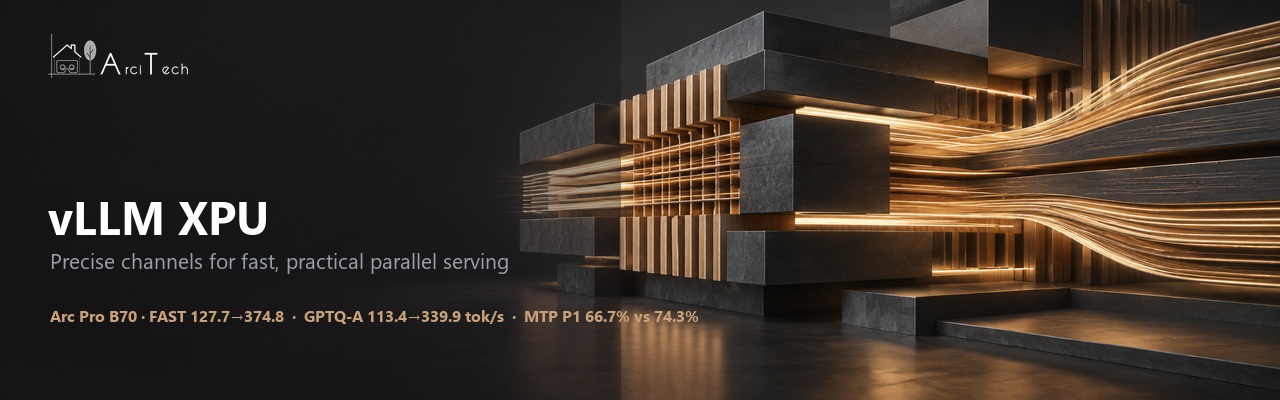
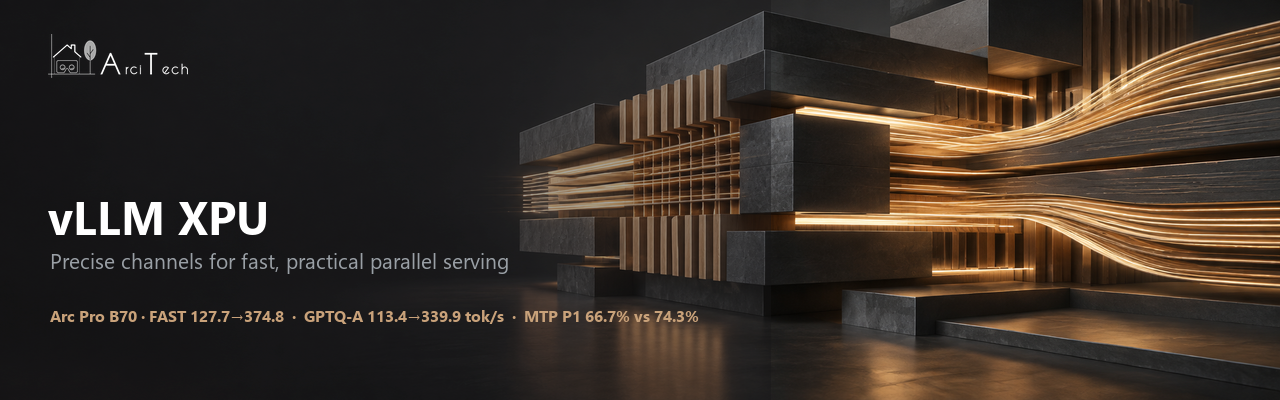
Present the release for a general audience
At-a-glance facts, the full test bench, plain-language charts in the
ArciTech theme, a glossary, and a practitioner section.

Changed region(s): [[0.4688, 0.03, 0.625, 0.72], [0.4688, 0.78, 0.5625, 1.0]]

diff --git a/README.md b/README.md
@@ -6,97 +6,127 @@
 
 <picture><source media="(prefers-color-scheme: dark)" srcset="assets/arcitech-logo-white.png"><img src="assets/arcitech-logo-black.png" alt="ArciTech logo"></picture>
 <picture><source media="(prefers-color-scheme: dark)" srcset="assets/hero-dark.png"><img src="assets/hero-light.png" alt="vLLM XPU for Intel Arc"></picture>
-<picture><source media="(prefers-color-scheme: dark)" srcset="assets/throughput-dark.png"><img src="assets/throughput-light.png" alt="FAST and GPTQ-A aggregate throughput comparison"></picture>
-<picture><source media="(prefers-color-scheme: dark)" srcset="assets/precision_map-dark.png"><img src="assets/precision_map-light.png" alt="Tiel-Coder logical precision map"></picture>
-<picture><source media="(prefers-color-scheme: dark)" srcset="assets/layer_gptq_relative_error-dark.png"><img src="assets/layer_gptq_relative_error-light.png" alt="GPTQ relative error by decoder layer"></picture>
-<picture><source media="(prefers-color-scheme: dark)" srcset="assets/mtp_acceptance-dark.png"><img src="assets/mtp_acceptance-light.png" alt="FAST and GPTQ-A MTP acceptance comparison"></picture>
 
-This is a reviewable, local build recipe for the best working Intel Arc/XPU
-path we have measured with Tiel-Coder: compressed-tensors W4A16 expert weights,
-the official BF16 MTP head, and three speculative draft tokens. The default
-build is based on vLLM commit `ac7509e2b1db40fec2f03dde1ed4e9dfdc2338c9`
-(`0.27.2rc1.dev77+gac7509e2b`), the runtime every number below was measured on,
-and includes the core patch, the XPU GGUF plugin source, and optional research
-paths. We are only trying to get something useful out there; the numbers below
-are campaign measurements, not a certification for every model, driver, or
-future vLLM release.
+This is a reviewable local build recipe for the best working Intel Arc/XPU
+route measured with Tiel-Coder: compressed-tensors W4A16 expert weights, the
+official BF16 MTP head, and three speculative draft tokens. It is a measured
+route, not a certification for every model, driver, or future vLLM release.
 
-A rebase onto vLLM `v0.30.0` is included under
-[`experimental/v0.30-rebase/`](experimental/v0.30-rebase/). It applies cleanly
-at source level but **has not been built or served yet**, and stock v0.30.0
-crashed on this model in our test window (details below). Use the default
-build unless you want to help test the rebase.
+## At a glance
+
+- **One Intel Arc Pro B70, 32 GB** served the tested 35B-parameter coding model.
+- **116.9 tokens/s for one user; 339.9 tokens/s shared across four** on GPTQ-A.
+- **219 of 224** on the internal agentic coding evaluation.
+- **Four 131,072-token conversations at once** in the measured configuration.
+- **vLLM 0.27.2rc1.dev77+gac7509e2b**, a custom XPU build with PyTorch XPU support.
+
+Tokens per second (tokens/s) is how quickly generated text arrives. A shared
+total is the combined output of several concurrent users.
+
+<picture><source media="(prefers-color-scheme: dark)" srcset="assets/test-bench-dark.png"><img src="assets/test-bench-light.png" alt="ArciTech test bench specification card"></picture>
+
+## Test system
+
+The short version: a consumer AM4 desktop with one 32 GB workstation GPU — no
+datacenter hardware.
+
+<details>
+<summary>Full test system</summary>
+
+| Part | Value |
+|---|---|
+| GPU 1 (serves the model) | Intel Arc Pro B70, 32 GB |
+| GPU 2 (in the machine, not used for these tests) | Intel Arc A310 LP, 4 GB |
+| CPU | AMD Ryzen 7 5800X, 8 cores / 16 threads |
+| System memory | 32 GB DDR4-3200 (4 × 8 GB) |
+| Motherboard | ASUS ROG Strix B550-F Gaming (AM4, PCIe 4.0) |
+| Model storage (weights served from here) | 1 TB Samsung PM9A1 NVMe SSD (PCIe 4.0) |
+| Other storage (archive only; the model was not loaded from it) | 1.5 TB WD Green HDD |
+| OS | Ubuntu 24.04.4 LTS, Linux kernel 7.0 |
+| Intel GPU runtime | compute-runtime 26.22.38646.4 (Level Zero + OpenCL), Level Zero loader 1.28.6, IGC 2.11.12 |
+| Container | Docker 29.1.3 |
+| Serving stack | vLLM 0.27.2rc1.dev77+gac7509e2b (custom XPU build, `vllm-xpu-arc`), PyTorch 2.13.0+xpu, vllm-xpu-kernels 0.1.12.3 |
+| Serving settings | FP8 KV cache, 131,072-token context, 4 concurrent sequences, 4,096 max batched tokens, MTP with 3 draft tokens |
+
+</details>
+
+## Read the measured results
+
+<picture><source media="(prefers-color-scheme: dark)" srcset="assets/speed-comparison-dark.png"><img src="assets/speed-comparison-light.png" alt="Per-user and shared total decode speed at one, two, and four users"></picture>
+
+| Build | 1 user | 2 users | 4 users |
+|---|---:|---:|---:|
+| GPTQ-A, per-stream / aggregate tok/s | 116.9 / 113.4 | 105.9, 113.6 / 195.6 | 94.0, 92.5, 92.5, 93.0 / 339.9 |
+| FAST CT2, per-stream / aggregate tok/s | 132.0 / 127.7 | 120.8, 125.0 / 228.6 | 99.3, 101.1, 101.0, 100.4 / 374.8 |
+
+<picture><source media="(prefers-color-scheme: dark)" srcset="assets/quality-comparison-dark.png"><img src="assets/quality-comparison-light.png" alt="Internal 224-task coding evaluation comparison"></picture>
+
+| Build | Total | Code (184) | Tool (20) | Edit (20) |
+|---|---:|---:|---:|---:|
+| GPTQ-A | 219 / 224 | 181 | 18 | 20 |
+| FAST CT2 | 213–215 / 224 | 176–178 | 18 | 19 |
+
+This internal evaluation is aggregate-only; task prompts and per-task records
+are not released.
+
+<picture><source media="(prefers-color-scheme: dark)" srcset="assets/precision-split-dark.png"><img src="assets/precision-split-light.png" alt="Logical precision split"></picture>
+
+The logical parameter split is approximately 93.5% routed expert GPTQ int4 and
+6.5% BF16. Attention, routing, normalization, embeddings, shared experts, the
+vision tower, output head, and MTP tensors remain BF16.
+
+<picture><source media="(prefers-color-scheme: dark)" srcset="assets/mtp-acceptance-dark.png"><img src="assets/mtp-acceptance-light.png" alt="MTP acceptance by draft position"></picture>
+
+MTP proposes tokens ahead and lets the main model verify several at once when
+the guesses match. GPTQ-A acceptance by configured draft position was 74.3%,
+50.9%, and 35.6%.
+
+## How to read this
+
+- **Token:** a small piece of text; words may be one or several tokens.
+- **Tokens/s:** generated tokens per second, a practical speed measure.
+- **MoE:** mixture of experts; only selected experts handle each token.
+- **int4 / BF16:** compact 4-bit routed-expert weights and retained 16-bit tensors.
+- **MTP:** multi-token prediction; a draft path proposes tokens for verification.
+- **KV cache:** saved attention state that avoids recomputing the conversation so far.
+- **Context:** the maximum conversation length the model can consider at once.
 
 ## Best working path
 
-The default path is the compressed-tensors Tiel-Coder deployment. It was
-measured on one Intel Arc Pro B70 with 32 GB using vLLM
-`0.27.2rc1.dev77+gac7509e2b`, PyTorch `2.13.0+xpu`,
+The default route uses the compressed-tensors Tiel-Coder deployment and was
+measured with vLLM `0.27.2rc1.dev77+gac7509e2b`, PyTorch `2.13.0+xpu`,
 `vllm-xpu-kernels 0.1.12.3`, FP8 KV cache, a 131,072-token maximum context,
 four sequence slots, 4,096 maximum batched tokens, and three MTP drafts.
 
-| Measurement | Result |
-|---|---:|
-| Historical FAST CT2 single-request decode | 133–138 tok/s |
-| Historical FAST CT2 four-request aggregate decode | 365–378 tok/s |
-| Historical FAST CT2 MTP acceptance | 67–81% |
-| Night reference FAST CT2 / GPTQ-A, 1 stream | 132.0 / 113.4 tok/s |
-| Night reference FAST CT2 / GPTQ-A, 4-stream aggregate | 374.8 / 339.9 tok/s |
-| Night reference MTP acceptance | FAST 66.7% / 42.0% / 24.7%; GPTQ-A 74.3% / 50.9% / 35.6% by position |
-| Agentic evaluation | 213–215 / 224 |
-| Long-context capacity | 4 × 131,072-token slots in the measured pool |
+The repository contains source and build recipes, not model weights or runtime
+caches. Build the pinned core patch and image, then mount the model read-only
+using the launcher supplied with the release. Set the launcher's model input to
+the model you downloaded from the
+[Hugging Face model page](https://huggingface.co/arcitech-psp/Tiel-Coder-35B-A3B-W4A16-GPTQ-XPU-MTP).
 
-The tested model is [Tiel-Coder 35B-A3B GPTQ W4A16](https://huggingface.co/arcitech-psp/Tiel-Coder-35B-A3B-W4A16-GPTQ-XPU-MTP).
-The companion data and reproduction repo is
-[https://github.com/arcitech-psp/tiel-coder-xpu](https://github.com/arcitech-psp/tiel-coder-xpu).
+```bash
+git clone https://github.com/vllm-project/vllm.git
+git -C vllm checkout ac7509e2b1db40fec2f03dde1ed4e9dfdc2338c9
+./scripts/apply-vllm-core-patch.sh vllm
+docker build -t vllm-xpu-arc:local .
+```
 
-## Upstream rebase and status (experimental)
+Use the model's Tiel Sharp template, BF16 compute, FP8 KV cache, four 131K
+slots, three MTP drafts, and the parser settings shown in the model card.
+Re-measure capacity for a different model, driver, or slot count.
 
-Everything in this section concerns the **experimental** v0.30.0 rebase in
-`experimental/v0.30-rebase/`, not the default build. The rebased core patch was
-checked against the local v0.30.0 source checkout on 2026-09-25. Upstream feature references are linked to vLLM pull requests; the
-local delta is limited to XPU-specific behavior not duplicated by that release.
+## For practitioners
 
-| Area | Classification | Boundary |
-|---|---|---|
-| DFlash2 | UPSTREAM | Candidate selector and local convolution: [#52816](https://github.com/vllm-project/vllm/pull/52816), with fused grouped convolution in [#55960](https://github.com/vllm-project/vllm/pull/55960). The old work-in-progress is not duplicated. |
-| DSpark | UPSTREAM | The upstream DSpark implementation is [#46995](https://github.com/vllm-project/vllm/pull/46995). The old work-in-progress is not duplicated. |
-| Model Runner V2 and offload tiers | UPSTREAM | Weight offloading [#51413](https://github.com/vllm-project/vllm/pull/51413), tiered KV offload [#49644](https://github.com/vllm-project/vllm/pull/49644), and MRV2 default [#53183](https://github.com/vllm-project/vllm/pull/53183). |
-| XPU grouped_topk and SYCL activation CustomOps | UPSTREAM | v0.30.0 includes [#53580](https://github.com/vllm-project/vllm/pull/53580) and [#53734](https://github.com/vllm-project/vllm/pull/53734). |
-| Qwen3.5 MTP quantization exclusion | UPSTREAM baseline | The v0.30 source carries the exclusion behavior; no local patch is claimed for it. |
-| Mixed XPU GDN dispatch | STILL OURS | `0001` splits mixed spec/non-spec batches because the fused XPU call remains exclusive for that combination. |
-| XPU GDN snapshot-copy contract | STILL OURS | Opt-in state-layout correction; separate from CUDA rolling-convolution storage. |
-| Adaptive MTP and exact C1 graph capture | STILL OURS | Opt-in research gates in `adaptive/` and `0001`; disabled by Docker defaults. |
-| oneDNN MXFP4 W4A16 and draft INT4 | STILL OURS | Separate from v0.30 native XPU MXFP4 and MTP paths; optional only. |
-| GGUF XPU plugin and SYCL k-quant MoE | STILL OURS | Out-of-tree plugin delta; it was rebased from the old private baseline onto plugin main `e2b8ad532b8b`. |
+### Feature matrix
 
-Patch artifact classification:
-
-| Patch | Classification | Evidence |
-|---|---|---|
-| `patches/0001-vllm-ac7509e2b-xpu-extras.patch` | DEFAULT | The core delta the measured runtime was built from, against `ac7509e2b`. |
-| `patches/0002-vllm-gguf-plugin-56bfc18.patch` | DEFAULT | The GGUF plugin delta against plugin `56bfc18`. |
-| `experimental/v0.30-rebase/patches/0001-vllm-v0.30.0-ced6857-xpu-extras.patch` | EXPERIMENTAL | 9 files; clean `git apply --check` on v0.30.0. Not built or served. |
-| `experimental/v0.30-rebase/patches/0002-vllm-gguf-plugin-e2b8ad5.patch` | EXPERIMENTAL | 14 files; clean apply to plugin main `e2b8ad532b8b5ea175100202c30430c1d2b5e6a8`. Not built or served. |
-
-| STATUS | Result |
-|---|---|
-| Core patch | Rebasing complete; applies cleanly to v0.30.0. Not yet built or served. |
-| GGUF patch | Rebasing complete; applies cleanly to plugin main `e2b8ad5`. Not yet built or served. |
-| Stock v0.30.0 serving | GPTQ-A loaded and reached compile/warmup, then segfaulted in stock SYCL top-k; a no-graph retry failed XPU memory reservation before `/v1/models`. |
-| Performance | Exact reference method completed on FAST and custom GPTQ-A; stock performance was not measured. |
-| Sharp template | Updated to latest fetched v22.5.0 content; diff is limited to removal of the model-specific terse lead. |
-
-## Feature matrix
-
-Status labels describe the measured boundary. `working` means the path
-was exercised in the campaign; `partial` and `experimental` are included for
+Status labels describe the measured boundary. `working` means the path was
+exercised in the campaign; `partial` and `experimental` are included for
 review and future work, not as the default launch route.
 
 | Feature | Status | Tested boundary |
 |---|---|---|
 | Compressed-tensors W4A16 fused int4 MoE | working | Tiel-Coder body, group 128, native XPU fused-MoE path. |
-| MTP speculative decoding | working | Official BF16 MTP head, three drafts, 67–81% measured acceptance. |
+| MTP speculative decoding | working | Official BF16 MTP head, three drafts, measured acceptance reported above. |
 | FP8 KV cache | working | Used in the measured Tiel-Coder and long-context runs. |
 | Tool calling | working | `qwen3_coder`, including streamed calls. |
 | Reasoning parser | working | `qwen3` reasoning/content split on the tested path. |
@@ -110,90 +140,37 @@ review and future work, not as the default launch route.
 | DFlash2 / DSpark | UPSTREAM | Use v0.30.0's upstream implementations; the local adaptive MTP path is not a substitute. |
 | Weight and KV offload tiers | UPSTREAM | Present in v0.30.0; not implemented by this repository's patch. |
 
-The stock v0.30.0 DFlash2/DSpark, grouped-top-k, SYCL activation, and graph
-features are upstream capabilities. Their presence does not prove that the
-local W4A16/MTP performance path is unchanged; that requires a side-by-side
+### Experimental v0.30.0 rebase
+
+The rebase under `experimental/v0.30-rebase/` applies cleanly at source level,
+but **has not been built or served**. Stock v0.30.0 loaded GPTQ-A and reached
+compile/warmup, then segfaulted in stock SYCL top-k; a no-graph retry failed the
+XPU memory reservation before a model endpoint became available. Stock
+performance was not measured. Use the default build for the measured route.
+
+The rebase keeps upstream v0.30 features separate from local XPU deltas:
+mixed XPU GDN dispatch, the XPU GDN snapshot-copy contract, adaptive MTP and
+exact C1 graph gates, optional oneDNN MXFP4 W4A16 and draft int4, and the GGUF
+XPU plugin/SYCL k-quant MoE path. Those optional paths are not the release
 benchmark.
 
-Failed experiments: notes coming later.
+### Included source
 
-## Install and build
-
-The repository contains source and build recipes, not model weights or runtime
-caches. The core patch is the authoritative review artifact.
-
-```bash
-git clone https://github.com/vllm-project/vllm.git
-git -C vllm checkout ac7509e2b1db40fec2f03dde1ed4e9dfdc2338c9
-./scripts/apply-vllm-core-patch.sh ./vllm
-docker build -t vllm-xpu-arc:local .
-```
-
-The Dockerfile rebuilds the measured runtime from the public vLLM XPU base
-image digest for that commit plus the patches here. It is a reconstruction:
-the measured image was built in place, and this Dockerfile has not yet been
-rebuilt from scratch on a clean machine. Please report whether it builds for
-you.
-
-To try the experimental v0.30.0 rebase instead:
-
-```bash
-git -C vllm checkout ced6857afa0ea7b2e3f0846a62e1394e90f15607
-./experimental/v0.30-rebase/scripts/apply-vllm-core-patch.sh ./vllm
-docker build -f experimental/v0.30-rebase/Dockerfile -t vllm-xpu-arc:v030-test .
-```
-
-The Dockerfile applies the pinned core patch, installs the included GGUF
-plugin without its CUDA extension, compiles the SYCL GGUF kernel, and builds
-the optional adaptive GDN and MXFP4 extensions. The optional native build
-helpers assert that `torch.xpu` has not been initialized during compilation:
-
-```bash
-python adaptive/build_kernel.py
-python mxfp4/build_mxfp4_w4a16.py --onednn installed
-```
-
-The MXFP4 recipe expects an external oneDNN source/install with Intel GPU
-SYCL support. It is not required for the best working Tiel-Coder path.
-
-## Run the best working path
-
-Mount the model read-only and use the supplied launcher:
-
-```bash
-MODEL_DIR=/models/Tiel-Coder-35B-A3B-W4A16-GPTQ-XPU-MTP \
-IMAGE=vllm-xpu-arc:local \
-./scripts/serve-example.sh
-```
-
-The launcher keeps model weights outside this repository. Use the model's
-Tiel Sharp template, BF16 compute, FP8 KV, four 131K slots, three MTP drafts,
-and the parser settings shown in the model repository. Re-measure memory
-capacity for a different model, driver, or slot count.
-
-## What is included
-
-- `patches/0001-vllm-ac7509e2b-xpu-extras.patch` — the vLLM core delta for
-  XPU dispatch, MTP hooks, replay pinning, exact C1 graphs, and optional draft
-  paths, against the measured `ac7509e2b` base.
-- `patches/0002-vllm-gguf-plugin-56bfc18.patch` — the included GGUF plugin
-  delta and XPU k-quant MoE path.
-- `experimental/v0.30-rebase/` — the same deltas rebased onto vLLM v0.30.0 and
-  plugin main `e2b8ad5`, with their own Dockerfile and apply script. Source-level
-  checks only; not built or served yet.
+- `patches/0001-vllm-ac7509e2b-xpu-extras.patch` — measured XPU core delta.
+- `patches/0002-vllm-gguf-plugin-56bfc18.patch` — included GGUF plugin delta.
+- `experimental/v0.30-rebase/` — source-level rebase, not built or served.
 - `plugins/vllm-gguf-plugin/` — plugin source and tests.
 - `adaptive/` — optional adaptive MTP and Gated DeltaNet SYCL sources.
 - `mxfp4/` — optional oneDNN-backed MXFP4 W4A16 sources.
 - `scripts/` — patch and container-run helpers.
 
-## Limits
+## Limits and privacy
 
-The working measurements were made on one Intel Arc Pro B70. Other Intel GPUs,
-CUDA, stock-vLLM equivalence, and future driver combinations are untested.
-Four 180K contexts exceeded the measured pool; keep the documented four-slot,
-131,072-token boundary until a new capacity measurement exists. The Docker
-build was not executed on this preparation machine; source, patch, compile,
-and privacy checks were performed.
+- Working measurements were made on one Intel Arc Pro B70.
+- Other Intel GPUs, CUDA, stock-vLLM equivalence, and future driver combinations are untested.
+- The measured boundary is four 131,072-token slots; larger contexts require a new capacity measurement.
+- The Docker build was not executed on this preparation machine; source, patch, compile, and privacy checks were performed.
+- No calibration data or private prompts are included.
 
 ## Credits
 
@@ -203,23 +180,17 @@ Tiel and the Sharp template, biMEMO's earlier reference work, and the Hugging
 Face community. The related model is published at the
 [Hugging Face account `arcitech-psp`](https://huggingface.co/arcitech-psp).
 
-Credit: GPT 5.6 Luna (Codex), directed by Claude.
-
-### Sharp template provenance
-
-Latest fetched source: `peculiar-ragdoll/Qwen-Sharp-Chat-Templates`, revision
-`85461fc118aaf25e7319c7ecf2481f944aac3a32`, modified 2026-09-10. The local
-fixture differs only in the two terse-lead strings: the latest revision removes
-the model-identifying phrase. The fixture was not changed during this rebase.
-
 ## Feedback and contact
 
-Feedback form: [https://docs.google.com/forms/d/1gaUBeulGlZwo8gt4eucGpg3biCKy-tli79urdTesXSI/viewform](https://docs.google.com/forms/d/1gaUBeulGlZwo8gt4eucGpg3biCKy-tli79urdTesXSI/viewform). Direct contact:
-[parthpatel266@gmail.com](mailto:parthpatel266@gmail.com). GitHub account:
-[arcitech-psp](https://github.com/arcitech-psp).
+Feedback form: [Google Form](https://docs.google.com/forms/d/1gaUBeulGlZwo8gt4eucGpg3biCKy-tli79urdTesXSI/viewform).
+Direct contact: [parthpatel266@gmail.com](mailto:parthpatel266@gmail.com).
+GitHub account: [arcitech-psp](https://github.com/arcitech-psp).
 
-## License and attribution
+## License and related pages
 
 Upstream vLLM and plugin files retain their Apache-2.0 notices. New code in
 this repository follows Apache-2.0 as documented in `LICENSE` and `NOTICE`.
-Please review the upstream attribution before publishing a derivative build.
+
+- [Tiel-Coder data repository](https://github.com/arcitech-psp/tiel-coder-xpu)
+- [Tiel-Coder model card](https://huggingface.co/arcitech-psp/Tiel-Coder-35B-A3B-W4A16-GPTQ-XPU-MTP)
+- [How Tiel-Coder XPU was built](../docs/APPROACH.md)
